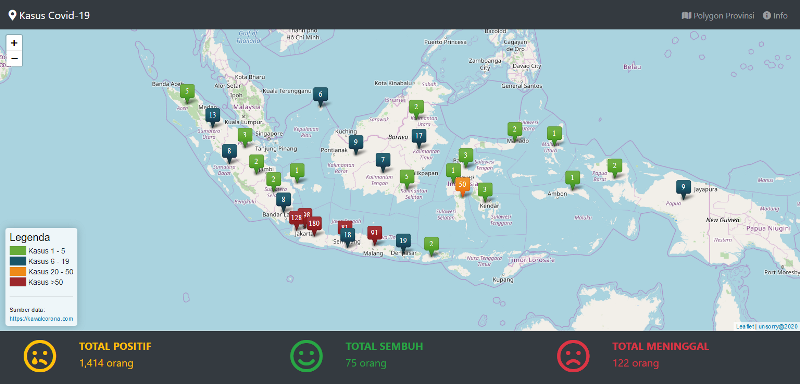
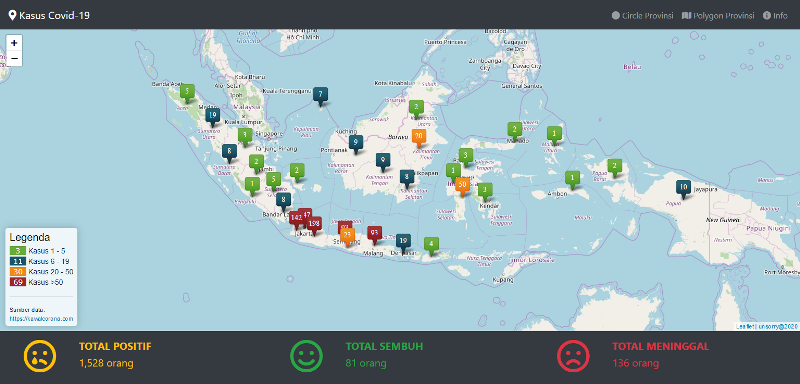
[Commit 2020-03-31]
- Menambahkan visualisasi peta dalam bentuk circle dari data kasus
positif
- Memindahkan style ke dalam file app.css

diff --git a/assets/app.css b/assets/app.css
@@ -1,0 +1,37 @@
+html, body, .container-fluid, #map {
+  width: 100%;
+  height: 100%;
+  margin: 0px;
+  padding: 0px;
+}
+.container-fluid {
+  padding-top: 55px;
+}
+.row-map {
+  width: 100%;
+  height: 85%;
+  margin: 0px;
+  padding: 0px;
+}
+.row-info {
+  width: 100%;
+  height: 15%;
+  margin: 0px;
+  padding: 0px;
+}
+.col-sm {
+  padding: 0px;
+}
+
+.info {
+  padding: 6px 8px;
+  font: 14px/16px Arial, Helvetica, sans-serif;
+  background: white;
+  background: rgba(255,255,255,0.8);
+  box-shadow: 0 0 15px rgba(0,0,0,0.2);
+  border-radius: 5px;
+}
+.info h5 {
+  margin: 0 0 5px;
+  color: #000;
+}

diff --git a/dashboardcircleprovinsi.php b/dashboardcircleprovinsi.php
@@ -8,9 +8,10 @@
   <meta name="author" content="unsorry">
 
   <link href="https://unsorry.net/assets-date/images/favicon.png" rel="shortcut icon" type="image/png">
-  <title>Polygon Provinsi</title>
+  <title>Circle Provinsi</title>
   <link rel="stylesheet" href="https://stackpath.bootstrapcdn.com/bootstrap/4.4.1/css/bootstrap.min.css">
   <link rel="stylesheet" href="https://cdnjs.cloudflare.com/ajax/libs/font-awesome/5.11.2/css/all.min.css">
+  <link rel="stylesheet" href="https://maxcdn.bootstrapcdn.com/font-awesome/4.7.0/css/font-awesome.min.css">
   <link rel="stylesheet" href="https://unpkg.com/leaflet@1.6.0/dist/leaflet.css">
   <link rel="stylesheet" href="assets/app.css">
 </head>
@@ -32,7 +33,7 @@
           <a class="nav-link" href="index.php"><i class="fas fa-map-marked-alt"></i> Centroid Provinsi</a>
         </li>
         <li class="nav-item">
-          <a class="nav-link" href="dashboardcircleprovinsi.php"><i class="fas fa-circle"></i></i> Circle Provinsi</a>
+          <a class="nav-link" href="dashboardpolygonprovinsi.php"><i class="fas fa-map"></i> Polygon Provinsi</a>
         </li>
         <li class="nav-item">
           <a class="nav-link" href="#" data-toggle="modal" data-target="#infoModal"><i class="fas fa-info-circle"></i> Info</a>
@@ -52,7 +53,7 @@
         </div>
         <div class="modal-body">
           <div class="card alert-dark p-3">
-            Peta ini menggunakan data kasus COVID-19 dari <a href="https://api.kawalcorona.com/indonesia/provinsi/" target="_blank">https://api.kawalcorona.com/indonesia/provinsi/</a> yang digabungkan dengan file <a href="data/provinsi_polygon.geojson" target="_blank">provinsi_polygon.geojson</a> menggunakan PHP menjadi geojson layer baru berupa <a href="geojson_polygon.php" target="_blank">geojson_polygon.php</a> yang secara otomatis ketika ada perubahan data dari <a href="https://api.kawalcorona.com/indonesia/provinsi/" target="_blank">https://api.kawalcorona.com/indonesia/provinsi/</a> maka info kasus positif, kasus sembuh, dan kasus meninggal akan otomatis berubah.<br>
+            Peta ini menggunakan data kasus COVID-19 dari <a href="https://api.kawalcorona.com/indonesia/provinsi/" target="_blank">https://api.kawalcorona.com/indonesia/provinsi/</a> yang digabungkan dengan file <a href="data/provinsi_point.geojson" target="_blank">provinsi_point.geojson</a> menggunakan PHP menjadi geojson layer baru berupa <a href="geojson.php" target="_blank">geojson.php</a> yang secara otomatis ketika ada perubahan data dari <a href="https://api.kawalcorona.com/indonesia/provinsi/" target="_blank">https://api.kawalcorona.com/indonesia/provinsi/</a> maka info kasus positif, kasus sembuh, dan kasus meninggal akan otomatis berubah.<br>
             Klasifikasi jumlah kasus berdasarkan klasifikasi dari BNPB.
             <hr>
             <a href="https://github.com/anshori/geojsoncombine-corona" type="button" class="btn btn-primary btn-sm btn-block" target="_blank"><i class="fab fa-github"></i> Source Code</a>
@@ -132,95 +133,46 @@
     });
     basemap.addTo(map);
 
-    /* GeoJSON Polygon */
-
-    var kasuscorona = L.geoJson(null, {
-      style: function (feature) {
-        if (feature.properties.Kasus_Positif <= 5) {
-          return {
-            opacity: 1,
-            color: 'gray',
-            weight: 1.0,
-            fillOpacity: 0.8,
-            fillColor: 'rgb(254, 242, 0)'
-          }
-        }
-        else if (feature.properties.Kasus_Positif >= 6 && feature.properties.Kasus_Positif <= 19) {
-          return {
-            opacity: 1,
-            color: 'gray',
-            weight: 1.0,
-            fillOpacity: 0.8,
-            fillColor: 'rgb(195, 187, 34)'
-          }
-        }
-        else if (feature.properties.Kasus_Positif >= 20 && feature.properties.Kasus_Positif <= 50) {
-          return {
-            opacity: 1,
-            color: 'gray',
-            weight: 1.0,
-            fillOpacity: 0.8,
-            fillColor: 'rgb(244, 132, 32)'
-          }
-        }
-        else if (feature.properties.Kasus_Positif > 50) {
-          return {
-            opacity: 1,
-            color: 'gray',
-            weight: 1.0,
-            fillOpacity: 0.8,
-            fillColor: 'rgb(221, 77, 87)'
-          }
-        }
-        else {
-          return {
-            opacity: 1,
-            color: 'gray',
-            weight: 1.0,
-            fillOpacity: 0.8,
-            fillColor: 'rgb(37, 150, 210)'
-          }
-        }
+    var kasusrendah = L.geoJson(null, {
+      pointToLayer: function (feature, latlng) {
+        var geojsonMarkerOptions = {
+          radius: feature.properties.Kasus_Positif/10,
+          fillColor: "red",
+          color: "gray",
+          weight: 0.7,
+          opacity: 1,
+          fillOpacity: 0.8
+        };
+        return L.circleMarker(latlng, geojsonMarkerOptions);
       },
       onEachFeature: function (feature, layer) {
-        var content = "<div class='card'>" +
-          "<div class='card-header alert-primary text-center p-1'><strong>Provinsi<br>" + feature.properties.PROV + "</strong></div>" +
+        if (feature.properties) {
+          var content = "<div class='card'>" +
+          "<div class='card-header alert-success text-center p-1'><strong>Provinsi<br>" + feature.properties.PROV + "</strong></div>" +
           "<div class='card-body p-0'>" +
             "<table class='table table-responsive-sm m-0'>" +
               "<tr><th><i class='far fa-sad-tear'></i> Kasus Positif</th><th>" + feature.properties.Kasus_Positif + "</th></tr>" +
               "<tr class='text-success'><th><i class='far fa-smile'></i> Kasus Sembuh</th><th>" + feature.properties.Kasus_Sembuh + "</th></tr>" +
               "<tr class='text-danger'><th><i class='far fa-frown'></i> Kasus Meninggal</th><th>" + feature.properties.Kasus_Meninggal + "</th></tr>" +
             "</table>" +
-          "</div>";          
-        layer.on({
-          mouseover: function (e) {
-            var layer = e.target;
-            layer.setStyle({
-              weight: 1,
-              color: "gray",
-              opacity: 1,
-              fillColor: "#00FFFF",
-              fillOpacity: 0.8,
-            });
-            kasuscorona.bindTooltip("Prov. " + feature.properties.PROV + "<br>Jumlah kasus: " + feature.properties.Kasus_Positif, {sticky: true});
-          },
-          mouseout: function (e) {
-            kasuscorona.resetStyle(e.target);
-            map.closePopup();
-          },
-          click: function (e) {
-            kasuscorona.bindPopup(content);
-          }
-        });
+          "</div>";
+          layer.on({
+            click: function (e) {
+              kasusrendah.bindPopup(content);
+            },
+            mouseover: function (e) {
+              kasusrendah.bindTooltip("Prov. " + feature.properties.PROV + "<br>Kasus Positif: " + feature.properties.Kasus_Positif, {sticky: true});
+            }
+          });
+        }
       }
     });
-    $.getJSON("geojson_polygon.php", function (data) {
-      kasuscorona.addData(data);
-      map.addLayer(kasuscorona);
-      map.fitBounds(kasuscorona.getBounds());
-    });
+    $.getJSON("geojson.php", function (data) {
+      kasusrendah.addData(data);
+      map.addLayer(kasusrendah);
+      map.fitBounds(kasusrendah.getBounds());
+    });   
 
-    /* Legenda */
     var legend = new L.Control({position: 'bottomleft'});
     legend.onAdd = function (map) {
       this._div = L.DomUtil.create('div', 'info');
@@ -228,7 +180,7 @@
       return this._div;
     };
     legend.update = function () {
-      this._div.innerHTML = '<h5>Legenda</h5><svg width="32" height="20"><rect width="32" height="17" style="fill:rgb(254, 242, 0, 0.9);stroke-width:0.1;stroke:rgb(0,0,0)" /></svg> Kasus 1 - 5<br><svg width="32" height="20"><rect width="32" height="17" style="fill:rgb(195, 187, 34, 0.9);stroke-width:0.1;stroke:rgb(0,0,0)" /></svg> Kasus 6 - 19<br><svg width="32" height="20"><rect width="32" height="17" style="fill:rgb(244, 132, 32, 0.9);stroke-width:0.1;stroke:rgb(0,0,0)" /></svg> Kasus 20 - 50<br><svg width="32" height="20"><rect width="32" height="17" style="fill:rgb(221, 77, 87, 0.9);stroke-width:0.1;stroke:rgb(0,0,0)" /></svg> Kasus >50<br><svg width="32" height="20"><rect width="32" height="17" style="fill:rgb(37, 150, 210, 0.9);stroke-width:0.1;stroke:rgb(0,0,0)" /></svg> Tidak ada kasus<hr><small>Sumber data:<br><a href="https://kawalcorona.com" target="_blank">https://kawalcorona.com</a></small>'
+      this._div.innerHTML = '<h5>Legenda</h5><table class="table table-sm"><tr><td><svg width="24" height="24"><circle cx="12" cy="12" r="10" stroke="gray" stroke-width="0.5" fill="rgb(255,0,0,0.8)" /></svg></td><td>Ukuran radius lingkaran<br>menunjukkan jumlah<br>kasus positif dalam<br>satuan pixel</td></tr></table><hr><small>Sumber data:<br><a href="https://kawalcorona.com" target="_blank">https://kawalcorona.com</a></small>'
     };
     legend.addTo(map);
   </script>

diff --git a/index.php b/index.php
@@ -13,46 +13,8 @@
   <link rel="stylesheet" href="https://cdnjs.cloudflare.com/ajax/libs/font-awesome/5.11.2/css/all.min.css">
   <link rel="stylesheet" href="https://maxcdn.bootstrapcdn.com/font-awesome/4.7.0/css/font-awesome.min.css">
   <link rel="stylesheet" href="https://unpkg.com/leaflet@1.6.0/dist/leaflet.css">
-  <link rel="stylesheet" href="assets/lib/Leaflet.ExtraMarkers/css/leaflet.extra-markers.min.css" />
-  <style>
-    html, body, .container-fluid, #map {
-      width: 100%;
-      height: 100%;
-      margin: 0px;
-      padding: 0px;
-    }
-    .container-fluid {
-      padding-top: 55px;
-    }
-    .row-map {
-      width: 100%;
-      height: 85%;
-      margin: 0px;
-      padding: 0px;
-    }
-    .row-info {
-      width: 100%;
-      height: 15%;
-      margin: 0px;
-      padding: 0px;
-    }
-    .col-sm {
-      padding: 0px;
-    }
-    
-    .info {
-      padding: 6px 8px;
-      font: 14px/16px Arial, Helvetica, sans-serif;
-      background: white;
-      background: rgba(255,255,255,0.8);
-      box-shadow: 0 0 15px rgba(0,0,0,0.2);
-      border-radius: 5px;
-    }
-    .info h5 {
-      margin: 0 0 5px;
-      color: #000;
-    }
-  </style>
+  <link rel="stylesheet" href="assets/lib/Leaflet.ExtraMarkers/css/leaflet.extra-markers.min.css">
+  <link rel="stylesheet" href="assets/app.css">
 </head>
 <body>
   <script src="https://code.jquery.com/jquery-3.4.1.min.js"></script></script>
@@ -69,6 +31,9 @@
 
     <div class="collapse navbar-collapse" id="navbarSupportedContent">
       <ul class="navbar-nav ml-auto">
+        <li class="nav-item">
+          <a class="nav-link" href="dashboardcircleprovinsi.php"><i class="fas fa-circle"></i></i> Circle Provinsi</a>
+        </li>
         <li class="nav-item">
           <a class="nav-link" href="dashboardpolygonprovinsi.php"><i class="fas fa-map"></i> Polygon Provinsi</a>
         </li>
@@ -366,7 +331,7 @@
       return this._div;
     };
     legend.update = function () {
-      this._div.innerHTML = '<h5>Legenda</h5><svg width="32" height="20"><rect width="32" height="17" style="fill:rgb(103, 171, 57);stroke-width:0.1;stroke:rgb(0,0,0)" /></svg> Kasus 1 - 5<br><svg width="32" height="20"><rect width="32" height="17" style="fill:rgb(24, 85, 104);stroke-width:0.1;stroke:rgb(0,0,0)" /></svg> Kasus 6 - 19<br><svg width="32" height="20"><rect width="32" height="17" style="fill:rgb(238, 138, 25);stroke-width:0.1;stroke:rgb(0,0,0)" /></svg> Kasus 20 - 50<br><svg width="32" height="20"><rect width="32" height="17" style="fill:rgb(156, 39, 43);stroke-width:0.1;stroke:rgb(0,0,0)" /></svg> Kasus >50<hr><small>Sumber data:<br><a href="https://kawalcorona.com" target="_blank">https://kawalcorona.com</a></small>'
+      this._div.innerHTML = '<h5>Legenda</h5><svg width="32" height="20"><rect width="32" height="17" style="fill:rgb(103, 171, 57);stroke-width:0.1;stroke:rgb(0,0,0)" /><text x="11" y="13.5" font-family="Verdana" font-size="14" fill="white">3</text></svg> Kasus 1 - 5<br><svg width="32" height="20"><rect width="32" height="17" style="fill:rgb(24, 85, 104);stroke-width:0.1;stroke:rgb(0,0,0)" /><text x="7" y="13.5" font-family="Verdana" font-size="14" fill="white">11</text></svg> Kasus 6 - 19<br><svg width="32" height="20"><rect width="32" height="17" style="fill:rgb(238, 138, 25);stroke-width:0.1;stroke:rgb(0,0,0)" /><text x="7" y="13.5" font-family="Verdana" font-size="14" fill="white">30</text></svg> Kasus 20 - 50<br><svg width="32" height="20"><rect width="32" height="17" style="fill:rgb(156, 39, 43);stroke-width:0.1;stroke:rgb(0,0,0)" /><text x="7" y="13.5" font-family="Verdana" font-size="14" fill="white">69</text></svg> Kasus >50<hr><small>Sumber data:<br><a href="https://kawalcorona.com" target="_blank">https://kawalcorona.com</a></small>'
     };
     legend.addTo(map);
   </script>

diff --git a/geojson.php b/geojson.php
@@ -15,7 +15,7 @@
     	} else {}
 		}
 	}
-	$combined_output = json_encode($pointProvinsi); 
+	$combined_output = json_encode($pointProvinsi, JSON_NUMERIC_CHECK); 
 
 	header("Access-Control-Allow-Origin: *");
 	header('Content-Type: application/json');
